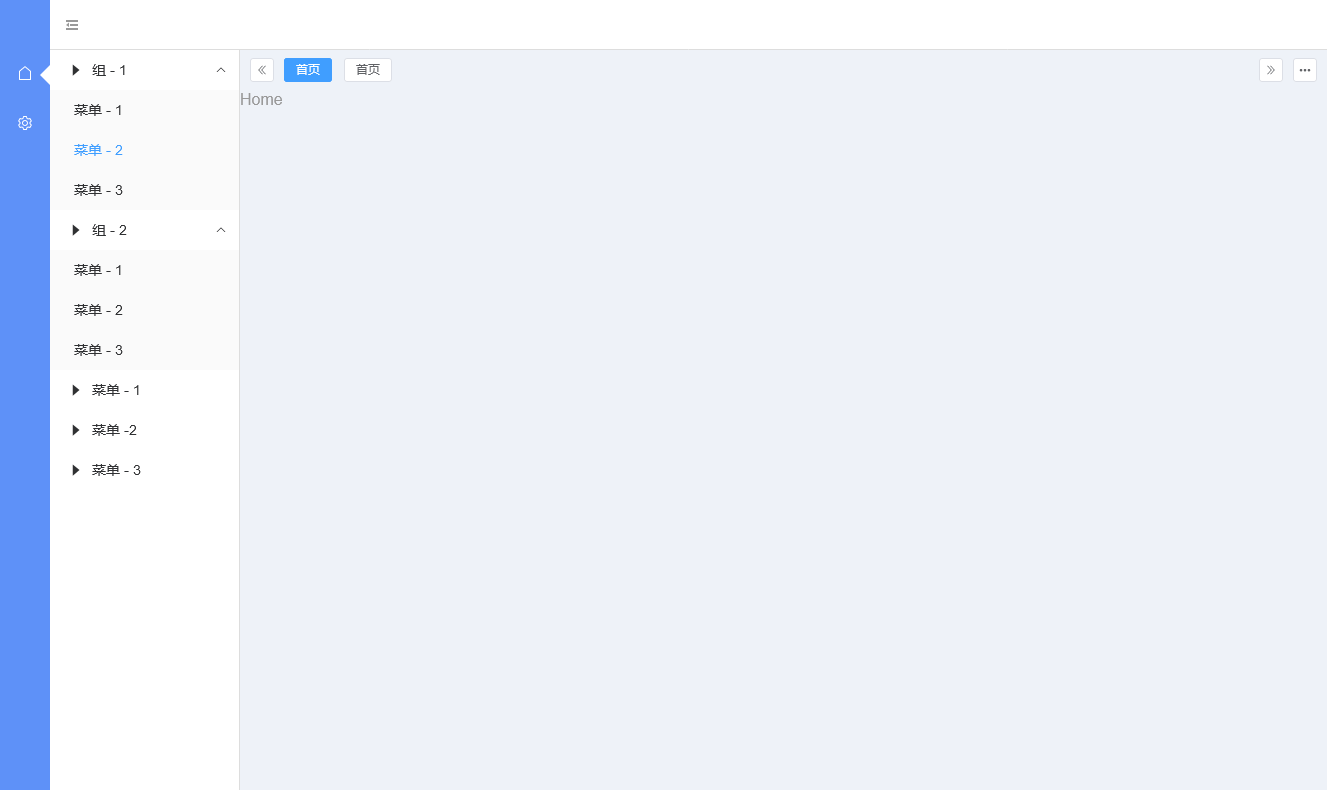
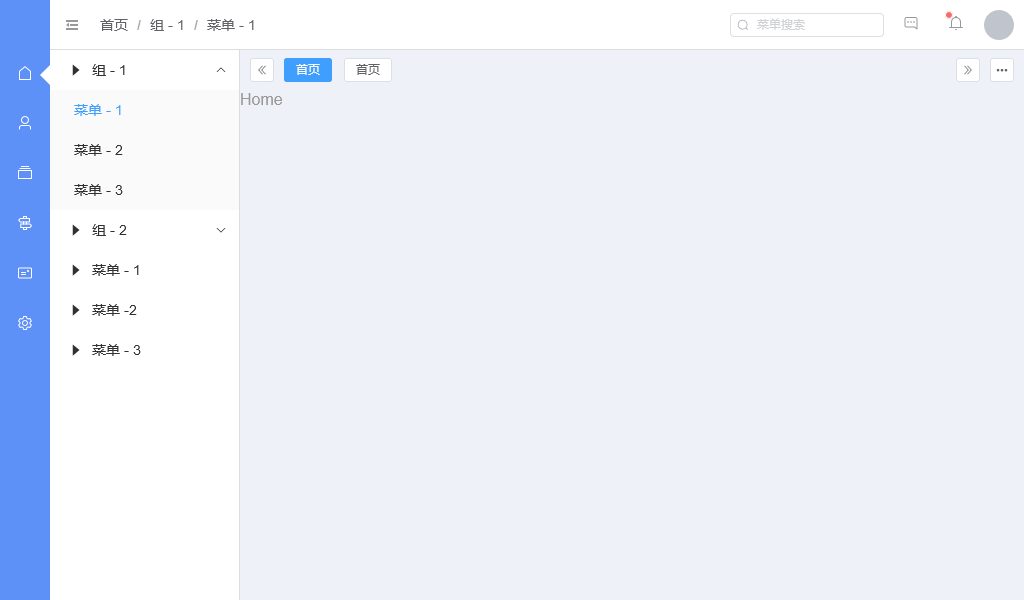
update
update

diff --git a/package/sso/layout/index.vue b/package/sso/layout/index.vue
@@ -1,12 +1,62 @@
 <template>
   <layout-admin class="var-admin" :is-mini="data.isMini" :menu="data.menu">
     <template #header>
-      <div class="var-admin__header-icon" @click="() => (data.isMini = !data.isMini)">
+      <div class="var-admin__headerNav" @click="() => (data.isMini = !data.isMini)">
         <el-icon>
           <Expand/>
         </el-icon>
       </div>
-      <!--      <el-switch v-model="data.isMini"></el-switch>-->
+      <el-breadcrumb separator="/">
+        <el-breadcrumb-item>首页</el-breadcrumb-item>
+        <el-breadcrumb-item>组 - 1</el-breadcrumb-item>
+        <el-breadcrumb-item>菜单 - 1</el-breadcrumb-item>
+      </el-breadcrumb>
+      <span style="margin: 0 auto;"></span>
+      <el-autocomplete :prefix-icon="Search" placeholder="菜单搜索" clearable/>
+      <div class="var-admin__headerNav">
+        <el-badge>
+          <el-icon>
+            <ChatDotSquare/>
+          </el-icon>
+        </el-badge>
+      </div>
+      <div class="var-admin__headerNav">
+        <el-badge is-dot>
+          <el-icon>
+            <Bell/>
+          </el-icon>
+        </el-badge>
+      </div>
+      <el-popover>
+        <template #reference>
+          <el-avatar class="var-admin__userPopover" :size="30"/>
+        </template>
+        <div class="var-admin__user">
+          <el-avatar class="var-admin__user--avatar"/>
+          <div class="var-admin__user--body">
+            <div class="var-admin__user--name">ReFunny</div>
+          </div>
+        </div>
+        <el-divider style="margin: 10px 0 5px;"/>
+        <div class="var-admin__user--item">
+          <el-icon>
+            <User/>
+          </el-icon>
+          <span>个人资料</span>
+        </div>
+        <div class="var-admin__user--item">
+          <el-icon>
+            <ChatDotSquare/>
+          </el-icon>
+          <span>我的消息</span>
+        </div>
+        <div class="var-admin__user--item">
+          <el-icon>
+            <SwitchButton/>
+          </el-icon>
+          <span>退出登录</span>
+        </div>
+      </el-popover>
     </template>
     <var-nav :data="data.nav.list" v-model="data.nav.active"/>
     <router-view/>
@@ -15,7 +65,7 @@
 
 <script lang="ts">export default { name: 'Admin' };</script>
 <script lang="ts" setup>
-import { Expand, House, Setting } from '@element-plus/icons-vue';
+import { Bell, ChatDotSquare, Expand, Files, Guide, House, Postcard, Search, Setting, SwitchButton, User } from '@element-plus/icons-vue';
 import LayoutAdmin from '@/layoutAdmin/index.vue';
 import VarNav from '@models/VarNav/index.vue';
 import { reactive } from 'vue';
@@ -31,11 +81,14 @@ const data = reactive<any>({
   },
   menu: [
     { icon: House, name: 'Home', label: '首页' },
-    { name: 'Home', label: '路由' },
-    { name: 'Home', label: '设置' },
-    { icon: Setting, name: 'Home', label: '设置' },
+    { icon: User, name: 'User', label: '用户' },
+    { icon: Files, name: 'Files', label: '文件' },
+    { icon: Guide, name: 'Router', label: '路由' },
+    { icon: Postcard, name: 'Setting', label: '权限' },
+    { icon: Setting, name: 'Setting', label: '设置' },
   ],
 });
+
 </script>
 
 <style lang="scss" src="./src/style.scss"/>

diff --git a/package/sso/components.d.ts b/package/sso/components.d.ts
@@ -7,9 +7,15 @@ export {}
 
 declare module '@vue/runtime-core' {
   export interface GlobalComponents {
+    ElAutocomplete: typeof import('element-plus/es')['ElAutocomplete']
+    ElAvatar: typeof import('element-plus/es')['ElAvatar']
+    ElBadge: typeof import('element-plus/es')['ElBadge']
+    ElBreadcrumb: typeof import('element-plus/es')['ElBreadcrumb']
+    ElBreadcrumbItem: typeof import('element-plus/es')['ElBreadcrumbItem']
     ElButton: typeof import('element-plus/es')['ElButton']
     ElConfigProvider: typeof import('element-plus/es')['ElConfigProvider']
     ElDescriptionsItem: typeof import('element-plus/es')['ElDescriptionsItem']
+    ElDivider: typeof import('element-plus/es')['ElDivider']
     ElDropdown: typeof import('element-plus/es')['ElDropdown']
     ElDropdownItem: typeof import('element-plus/es')['ElDropdownItem']
     ElDropdownMenu: typeof import('element-plus/es')['ElDropdownMenu']
@@ -20,6 +26,7 @@ declare module '@vue/runtime-core' {
     ElMenu: typeof import('element-plus/es')['ElMenu']
     ElMenuItem: typeof import('element-plus/es')['ElMenuItem']
     ElMenuItemGroup: typeof import('element-plus/es')['ElMenuItemGroup']
+    ElPopover: typeof import('element-plus/es')['ElPopover']
     ElSubMenu: typeof import('element-plus/es')['ElSubMenu']
     ElSwitch: typeof import('element-plus/es')['ElSwitch']
     ElTooltip: typeof import('element-plus/es')['ElTooltip']

diff --git a/package/sso/layout/src/style.scss b/package/sso/layout/src/style.scss
@@ -1,11 +1,14 @@
 .var-admin {
   .var-layoutAdmin__header {
-    //padding: 0 16px;
     padding-left: 5px;
     padding-right: 10px;
+
+    > * + * {
+      margin-left: 10px;
+    }
   }
 
-  &__header-icon {
+  &__headerNav {
     width: 35px;
     height: 35px;
     display: flex;
@@ -22,7 +25,42 @@
     }
   }
 
-  &.is-mini .var-admin__header-icon {
+  &.is-mini .var-admin__headerNav {
     transform: rotateY(0);
+  }
+
+  &__userPopover {
+    cursor: pointer;
+  }
+
+  &__user {
+    display: flex;
+    align-items: center;
+
+    &--body {
+      padding-left: 10px;
+    }
+
+    &--item {
+      height: 30px;
+      display: flex;
+      cursor: pointer;
+      padding: 0 10px;
+      border-radius: 4px;
+      align-items: center;
+
+      & + & {
+        margin-top: 5px;
+      }
+
+      &:hover {
+        background-color: #eee;
+        color: var(--el-color-primary);
+      }
+
+      > span {
+        padding-left: 10px;
+      }
+    }
   }
 }
